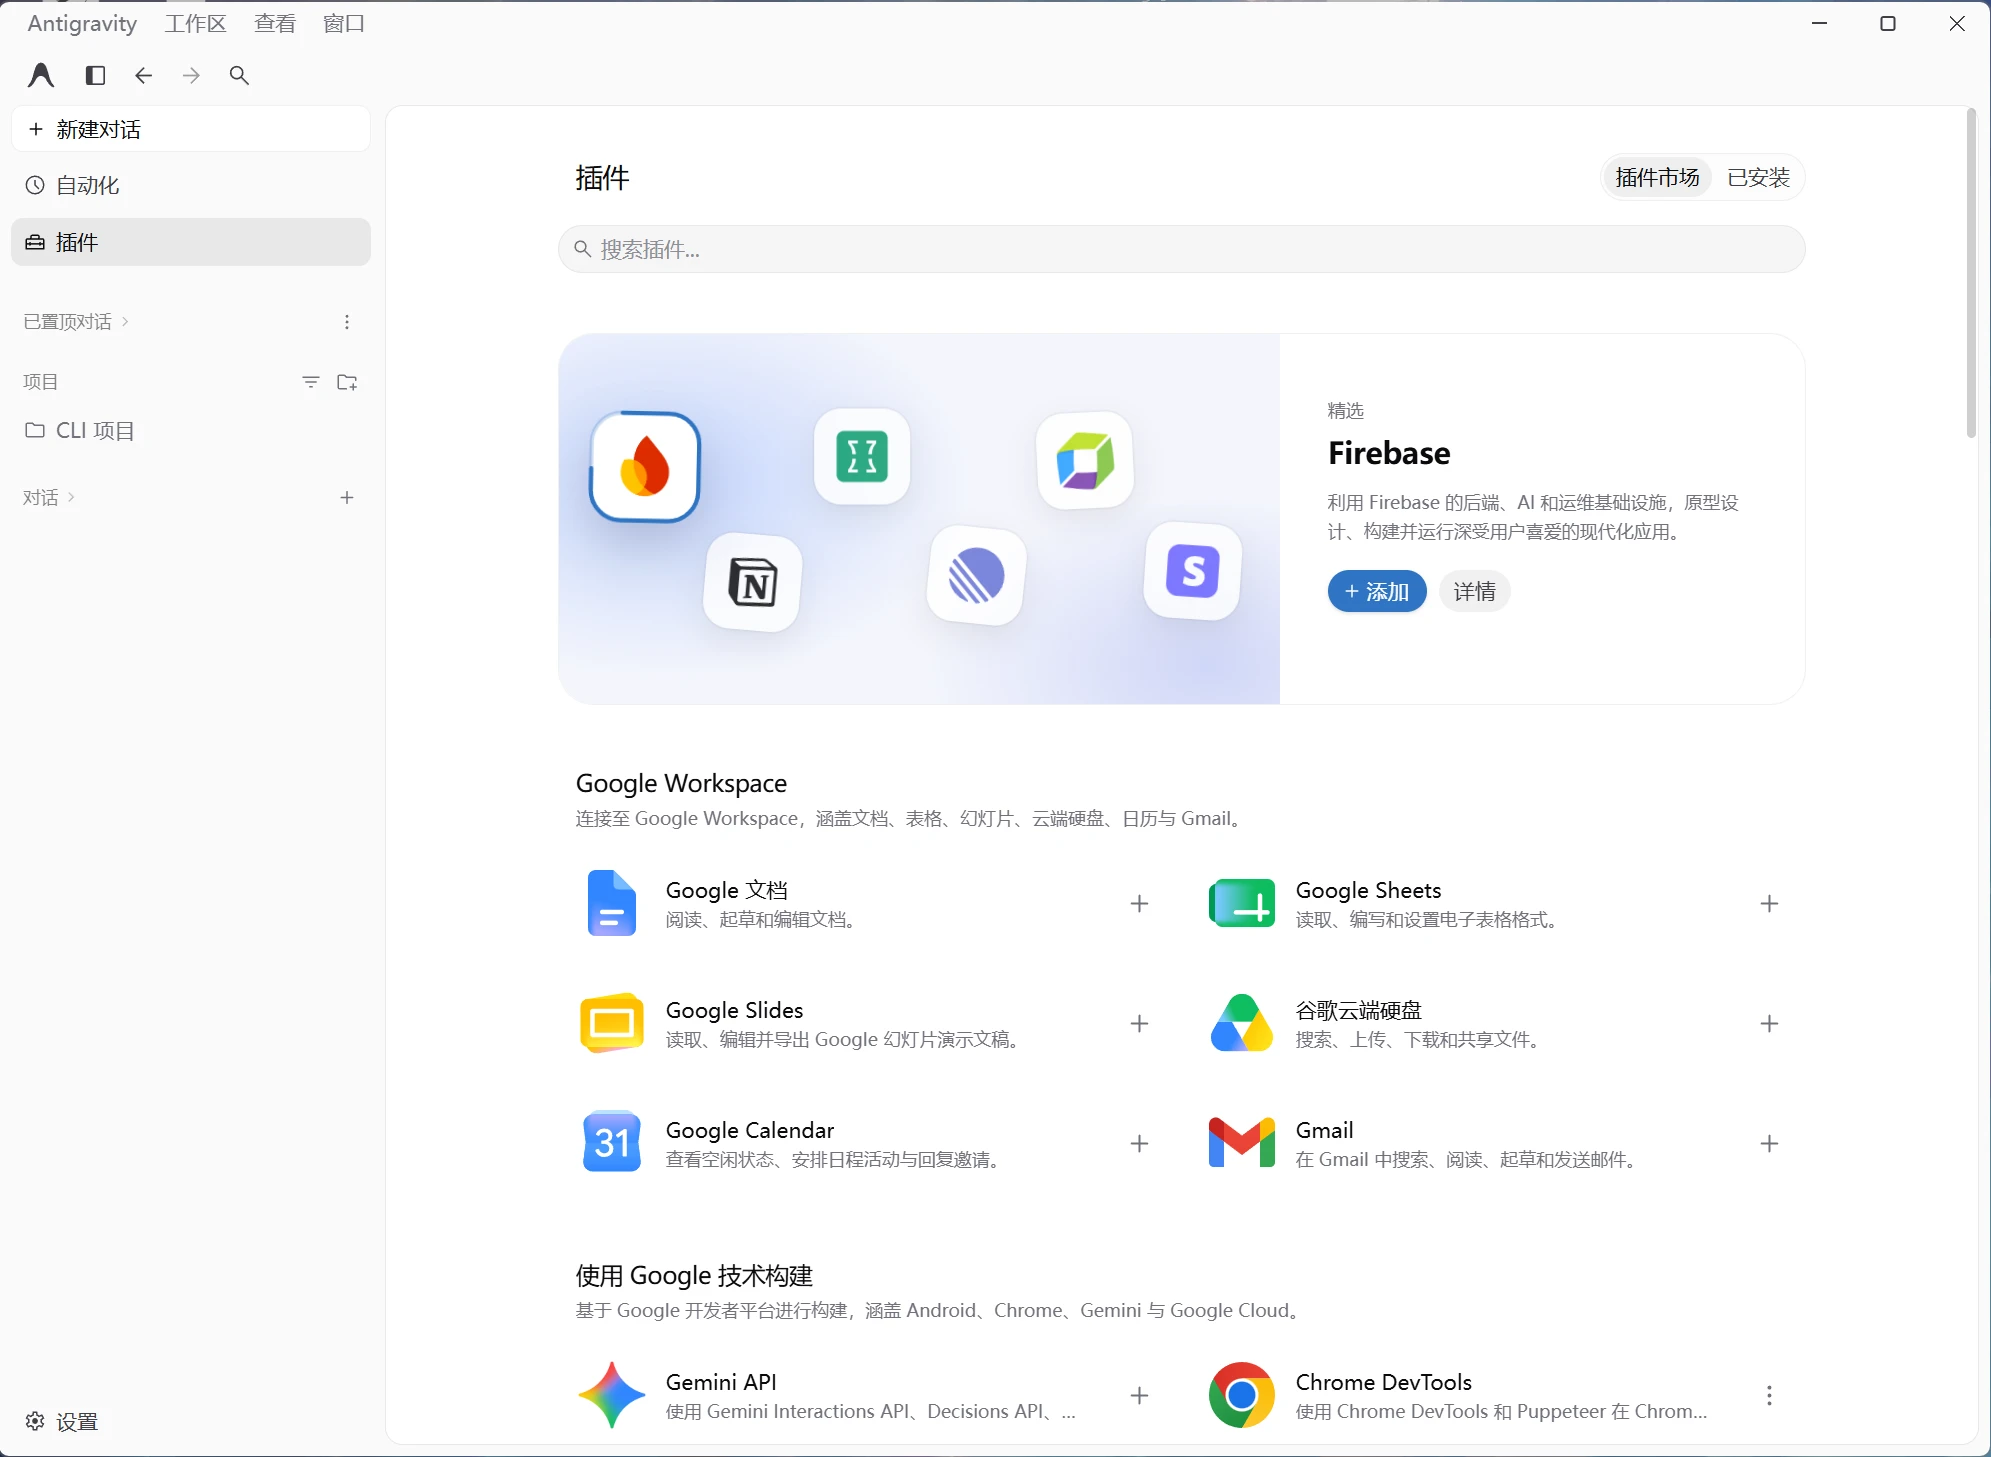
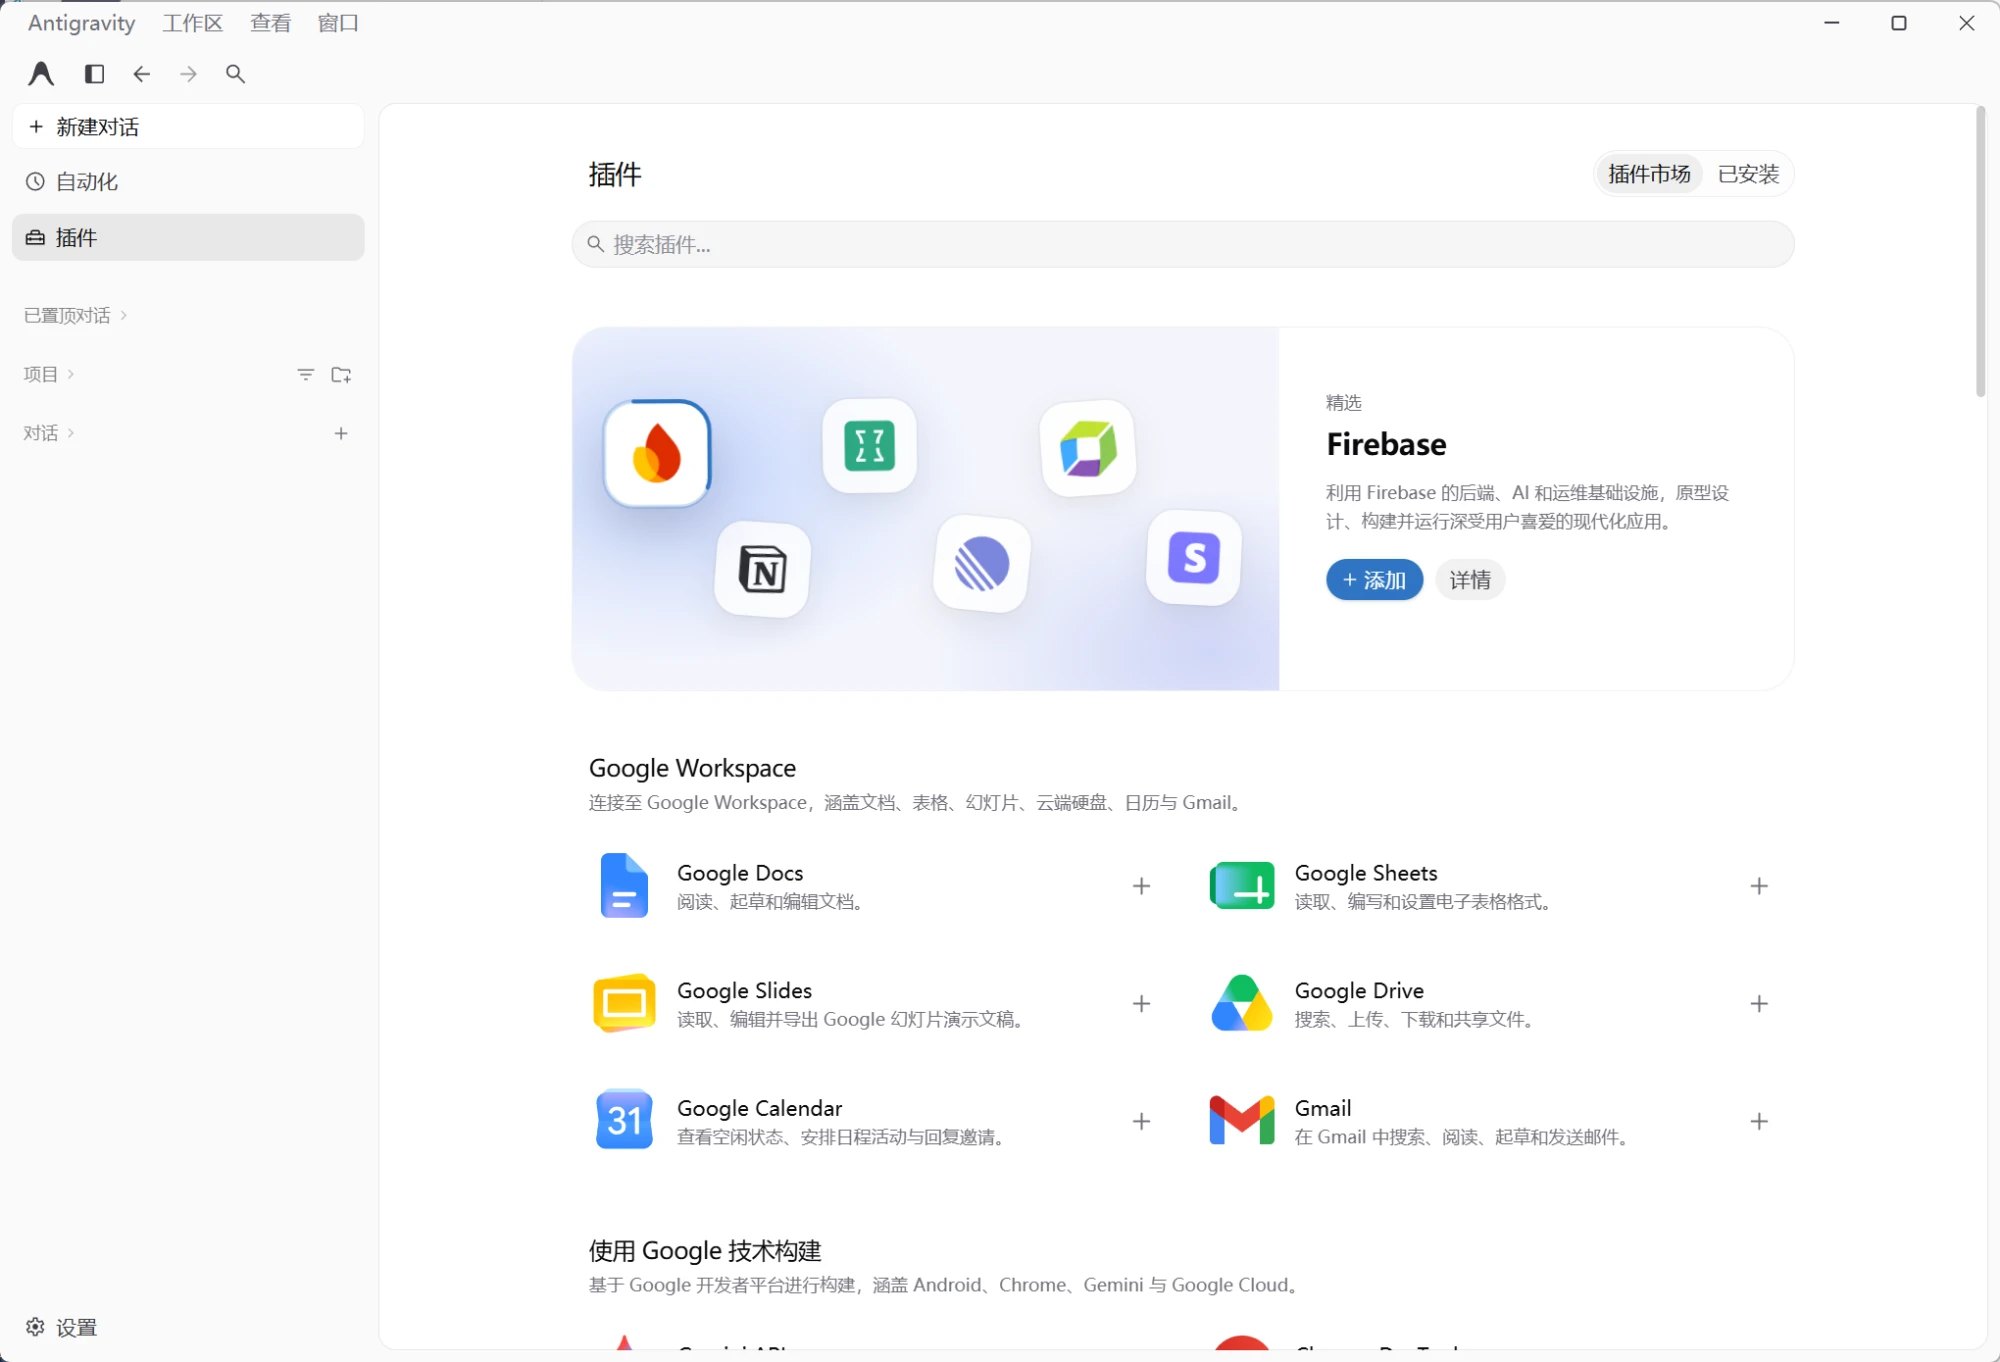
docs: 设置截图恢复打码，插件市场换新图，更正主页说法
- 设置页截图换回项目名已打码的版本；插件市场截图换成 Google 产品名统一后的新图
- 汉化设置为三项；Mac 入口统一为“Antigravity自动汉化”
- 说明自动更新的实际生效方式与“稍后再说”24 小时不再提醒
- 隐私说明补充：汉化包自动更新只读取 GitHub 发布页，不上传任何内容
- 常见问题“怎么更新语言包”改为先讲自动更新，手动覆盖作为备选
- 只改文档与图片，不影响汉化包，不发新版本

diff --git a/docs/faq/index.html b/docs/faq/index.html
@@ -13,6 +13,6 @@
  <h2>只想更新翻译，要重新下载完整包吗？</h2><p>已有新版完整包时，到发布页下载“仅更新语言包-不能单独使用.zip”，替换原目录里的“语言包”文件夹，再运行一次“启动中文”。首次使用、从 v2.2.0 及更早版本升级，或文件已删除时，请下载完整包。</p>
  <h2>还看到英文没翻译怎么办？</h2><p>先确认使用的是最新版本。仍有遗漏时，请在 <a href="https://github.com/Ace2025001/antigravity-desktop-zhcn/issues/new/choose">问题反馈</a> 里选择“漏翻 / 翻译优化建议”，附上英文原文、截图和所在界面，截图前请遮盖邮箱等隐私信息。</p>
  <h2>客户端更新后会自动汉化吗？</h2><p>会。Windows 上首次运行时可以选择：自动汉化（推荐）、先问我、不处理。在客户端里点“重启以更新”后，汉化包会等新版本装好，自动关闭重启出来的英文窗口、重新汉化并打开中文版，过程中有进度窗口；先问我模式会在更新完成时弹窗询问。不会常驻后台，也不添加计划任务。</p>
- <h2>标题自动翻译是什么？会发送我的对话吗？</h2><p>软件本体界面全部采用 1.6 万多条人工整理的译文，不再对普通界面做机器翻译。由于 Antigravity 自动生成的对话标题默认为英文，开启“标题自动翻译”后会将纯英文对话标题译为中文显示（默认不改写对话记录）。对话内容、代码、终端输出、本地项目文件夹、路径和你在对话中输入的内容均不会发送。如果想保留纯英文标题，亲手重命名会自动记住并保留原名，也可以在“汉化设置”中关闭此开关。</p>
+ <h2>标题自动翻译是什么？会发送我的对话吗？</h2><p>软件本体界面全部采用 1.6 万多条人工整理的译文，不再对普通界面做机器翻译。由于 Antigravity 自动生成的对话标题默认为英文，开启“标题自动翻译”后会将纯英文对话标题译为中文显示（默认不改写对话记录）。对话内容、代码、终端输出、本地项目文件夹、路径和你在对话中输入的内容均不会发送。如果想保留纯英文标题，亲手重命名会自动记住并保留原名，也可以在“汉化设置”中关闭此开关。“汉化包自动更新”只会读取 GitHub 发布页上的版本信息并下载安装包，不上传任何内容；不需要的话可在“汉化设置”里关闭。</p>
  <h2>汉化包能自动更新吗？怎么修改这些设置？</h2><p>可以。无论从桌面图标、任务栏、程序坞还是“启动中文”打开 Antigravity，都会按“汉化包自动更新”设置（自动更新 / 先问我 / 关闭）检查 GitHub 最新版本并校验 SHA-256。双击启动目录里的“汉化设置”（Windows 为 <code>汉化设置.bat</code>，Mac 为 <code>汉化设置.command</code>），即可修改以上全部选项。</p>
  <h2>能让 AI 助手帮我自动安装吗？</h2><p>可以。把仓库地址发给豆包、DeepSeek、WorkBuddy、Claude Code、Codex、Cursor 等 AI 助手，让它按 <a href="https://github.com/Ace2025001/antigravity-desktop-zhcn/blob/main/docs/ai-install.md">AI 助手安装指南</a> 操作。指南写明了下载地址、SHA-256 校验、各平台命令、结果判断和恢复方法。</p><p><a class="cta" href="https://github.com/Ace2025001/antigravity-desktop-zhcn/releases/latest/download/Antigravity-Windows%2BMac.zip">下载完整汉化包 · Windows + Mac</a><a href="https://github.com/Ace2025001/antigravity-desktop-zhcn/releases/latest">版本说明与语言更新包</a></p><p><a href="https://github.com/Ace2025001/antigravity-desktop-zhcn/issues">问题反馈</a> · <a href="https://ace2025001.github.io/antigravity-desktop-zhcn/">返回下载首页</a></p></main><footer>遵循 <a href="https://github.com/Ace2025001/antigravity-desktop-zhcn/blob/main/LICENSE">MIT License</a>。本网站不设置访问统计 Cookie。</footer></body></html>

diff --git a/README.md b/README.md
@@ -61,7 +61,7 @@ antigravity汉化包/
 ├─ win启动/            ← Windows 用这里
 │  ├─ 启动中文.bat      汉化并打开客户端（日常也可以用它打开）
 │  ├─ 恢复英文.bat      还原官方英文原版
-│  ├─ 汉化设置.bat      修改下面两项设置
+│  ├─ 汉化设置.bat      修改下面三项设置
 │  └─ 配套程序/         内置运行环境，不要删除
 ├─ mac启动/            ← Mac 用这里（.command 文件，用法相同）
 └─ 语言包/             翻译词库和共用程序，不要删除
@@ -85,11 +85,11 @@ antigravity汉化包/
 - **先问我**：弹窗问你“是否现在一键汉化”。选“是”打开汉化窗口；选“否”则这个版本不再提醒。
 - **不处理**：保持英文，需要时双击“启动中文”。
 
-汉化包没有计划任务，也不常驻后台，只在客户端启动或退出时检查一次。Mac 用桌面上的“启动中文”或 `Antigravity 中文.app` 打开时也会按设置检查汉化包是否有新版本。
+汉化包没有计划任务，也不常驻后台，只在客户端启动或退出时检查一次。Mac 中文版用桌面上的“Antigravity自动汉化”打开，同样会按设置检查汉化包是否有新版本。
 
 ### 汉化包自动更新与标题自动翻译
 
-- **汉化包自动更新**：无论从桌面图标、任务栏 / 程序坞还是 `启动中文` 打开 Antigravity，都会按设置检查仓库最新版本并校验 SHA-256。选 **自动更新（推荐）** 会在后台更新词库与核心脚本并下次生效（或关闭客户端后自动补齐）；选 **先问我** 会弹窗询问是否更新；选 **关闭** 则不检查。
+- **汉化包自动更新**：无论从桌面图标、任务栏 / 程序坞还是 `启动中文` 打开 Antigravity，都会按设置检查仓库最新版本并校验 SHA-256。选 **自动更新（推荐）** 会在后台下载并校验新版：Windows 上界面译文当场更新（在客户端菜单“查看 → 重新加载”后即可看到），其余部分在下次关闭客户端时自动补齐；Mac 上如果中文版正开着，退出后用“Antigravity自动汉化”重新打开一次即可生效。选 **先问我** 会弹窗询问是否更新（点“稍后再说”24 小时内不再提醒）；选 **关闭** 则不联网检查。检查更新只访问 GitHub 的发布页，不上传任何内容。
 - **标题自动翻译**：软件本体界面全部采用 1.6 万多条人工校对译文，不再对普通界面做机器翻译。仅在 Antigravity 自动生成纯英文对话标题时译为中文，默认只在界面显示、不修改对话记录；亲手重命名某条对话后将永久保留你的英文标题。对话内容、代码、终端输出、文件名、本地路径与你输入的内容均不翻译、不上传。随时可在“汉化设置”中关闭，改完重启客户端即可生效。
 
 ## 支持范围
@@ -109,7 +109,7 @@ antigravity汉化包/
 
 ### 标题自动翻译会上传我的对话吗？
 
-不会。软件界面全部使用本地人工词库。开启“标题自动翻译”后：**只会**将 Antigravity 自动生成的纯英文对话标题译为中文；**不会**上传你的对话内容、代码、终端输出、文件名、链接、路径以及你输入的任何内容（亲手重命名的标题也不会翻译；在“汉化设置”关闭后完全不发送任何标题）。
+不会。软件界面全部使用本地人工词库。开启“标题自动翻译”后：**只会**将 Antigravity 自动生成的纯英文对话标题译为中文；**不会**上传你的对话内容、代码、终端输出、文件名、链接、路径以及你输入的任何内容（亲手重命名的标题也不会翻译；在“汉化设置”关闭后完全不发送任何标题）。“汉化包自动更新”只会读取 GitHub 发布页上的版本信息并下载安装包，不上传任何内容；不需要的话可在“汉化设置”里关闭。
 
 ### 能恢复官方原版吗？
 
@@ -125,7 +125,9 @@ antigravity汉化包/
 
 ### 怎么更新语言包？
 
-在[最新发布页](https://github.com/Ace2025001/antigravity-desktop-zhcn/releases/latest)下载新版，替换“语言包”文件夹，再双击“启动中文”。首次使用请下载完整包。
+默认会自动更新：“汉化包自动更新”设为“自动更新”或“先问我”时，打开或退出客户端都会检查新版本，校验后自动替换，不用手动下载。
+
+关闭了自动更新、或想手动更新时，在[最新发布页](https://github.com/Ace2025001/antigravity-desktop-zhcn/releases/latest)下载完整包，解压后覆盖原来的汉化包文件夹（位置不要变），再双击“启动中文”。
 
 ### 汉化时客户端正在运行怎么办？
 

diff --git a/README.en.md b/README.en.md
@@ -38,7 +38,7 @@ The first run asks setup questions; press Enter to accept the recommended values
 
 - **Localize automatically**: after “Restart to update”, the new version is localized and reopened in Chinese in about 40 seconds. **Ask me** prompts with an update card. No scheduled task or resident process is installed.
 - **Language pack auto-update**: regardless of how Antigravity is launched, checks the latest GitHub release against SHA-256 `digest`. **Auto-update** updates translations and core scripts silently in the background; **Ask me** prompts first; **Off** disables pack update checks. Existing installs created before this setting default to **Ask me**.
-- **Title auto-translation**: all app UI strings use curated human translations only (no machine translation on UI buttons/menus). When enabled, only AI-generated English conversation titles are translated for display (without modifying stored chat records); manually renamed titles always stay English. Chat content, code, terminal output, file names, links, paths and anything you type are never sent.
+- **Title auto-translation**: all app UI strings use curated human translations only (no machine translation on UI buttons/menus). When enabled, only AI-generated English conversation titles are translated for display (without modifying stored chat records); manually renamed titles always stay English. Chat content, code, terminal output, file names, links, paths and anything you type are never sent. Language pack auto-update only reads the GitHub release page and downloads the package; nothing is uploaded.
 
 ## Features
 
